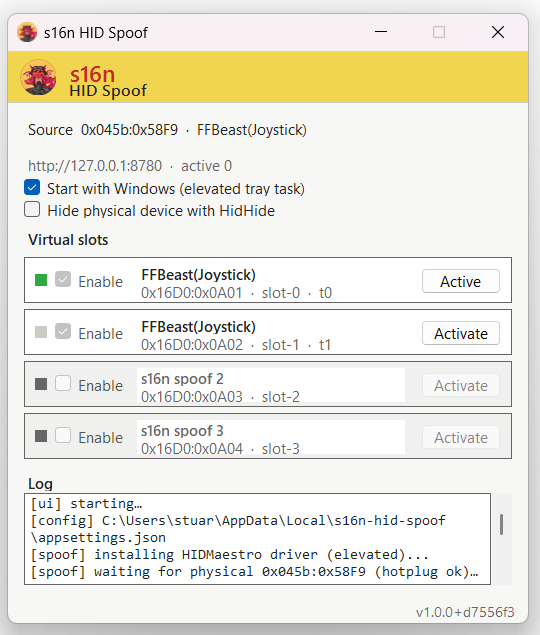
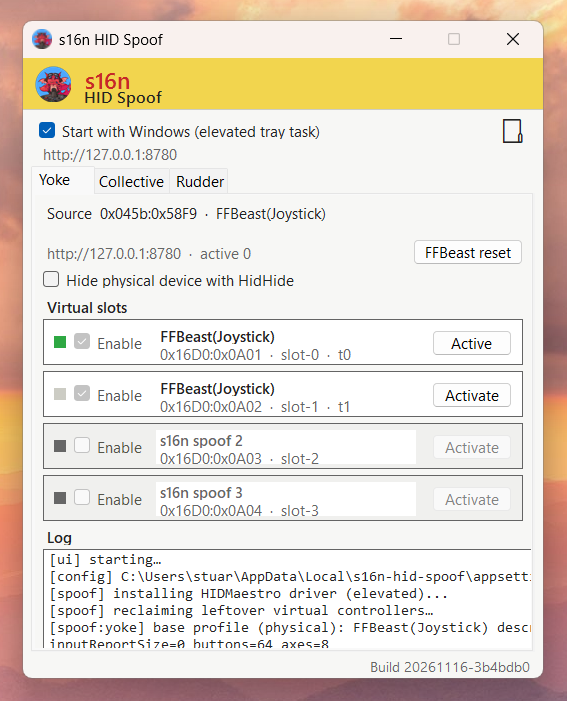
Refresh the README screenshot and document SPAD.next persistence.
Cover /health and /devices/{id}/slots, and note that virtual devices stay up across physical restarts.

diff --git a/README.md b/README.md
@@ -4,6 +4,8 @@ Windows app that takes **up to three physical USB HID controllers** and presents
 
 Made for [FFBeast](https://ffbeast.com/) flight controls that share the same VID:PID — each stick/yoke can look like a different device to the sim. Use a tab per physical (Yoke / Stick / Rudder by default).
 
+Also helps with **[SPAD.next](https://www.spadnext.com/)**: the virtual devices stay present if a physical controller restarts or hotplugs, so SPAD does not see the device disappear and come back.
+
 ![s16n HID Spoof UI](docs/ui.png)
 
 ## Install
@@ -12,7 +14,7 @@ Download: https://github.com/stuart11n/s16n-hid-spoof/releases/download/latest/s
 
 The installer is small (framework-dependent). If needed, it downloads and installs the **.NET 10 Desktop** and **ASP.NET Core** runtimes during setup.
 
-Run the app **as Administrator**. Close or minimize sends it to the taskbar. Optional **Start with Windows** starts it in the notification area only (no taskbar button) at logon. Use the tray menu **Exit**, or close from the taskbar, to quit.
+Run the app **as Administrator**. Close or minimize sends it to the taskbar. Optional **Start with Windows** starts it in the notification area only (no taskbar button) at logon. Use the tray menu **Exit**, or close from the taskbar, to quit. The folder icon opens the config directory.
 
 Plug each enabled physical controller in at least once so the app can **record its HID report descriptor**. After that, virtual devices start with the real button/axis layout even if the stick is unplugged (hotplug still works). Cache files live under `%LOCALAPPDATA%\s16n-hid-spoof\` (`physical-profile-{id}.hm.json`).
 
@@ -35,6 +37,7 @@ Created on first launch. Older single-device configs are migrated automatically 
 | `Devices[n].Physical.DevicePathContains` | Optional path substring when several units share VID:PID |
 | `Devices[n].VirtualDevices[0..3]` | Up to four virtual devices per physical |
 | `Devices[n].ActiveSlot` | Which slot starts active (`0..3`) |
+| `Devices[n].ForwardOutputToPhysical` | Send force-feedback / rumble back to the real device |
 | `Http.Url` | Control URL (default `http://127.0.0.1:8780`) |
 
 ## HTTP (GET only)
@@ -43,13 +46,17 @@ Default: `http://127.0.0.1:8780` (this PC only).
 
 | URL | What it does |
 |-----|----------------|
+| `/health` | Process up + per-device running/ready |
 | `/status` | All devices |
 | `/devices/{id}/status` | One device (`yoke`, `stick`, `rudder`, …) |
+| `/devices/{id}/slots` | Virtual slot list for that device |
 | `/devices/{id}/active?slot=2` or `/devices/{id}/active/2` | Switch slot on that device |
 | `/devices/{id}/ffbeast/reset` | FFBeast flight reset for that device |
 
 ```bash
+curl -s http://127.0.0.1:8780/health
 curl -s http://127.0.0.1:8780/status
+curl -s http://127.0.0.1:8780/devices/yoke/slots
 curl -s "http://127.0.0.1:8780/devices/yoke/active?slot=2"
 curl -s "http://127.0.0.1:8780/devices/yoke/ffbeast/reset"
 ```
